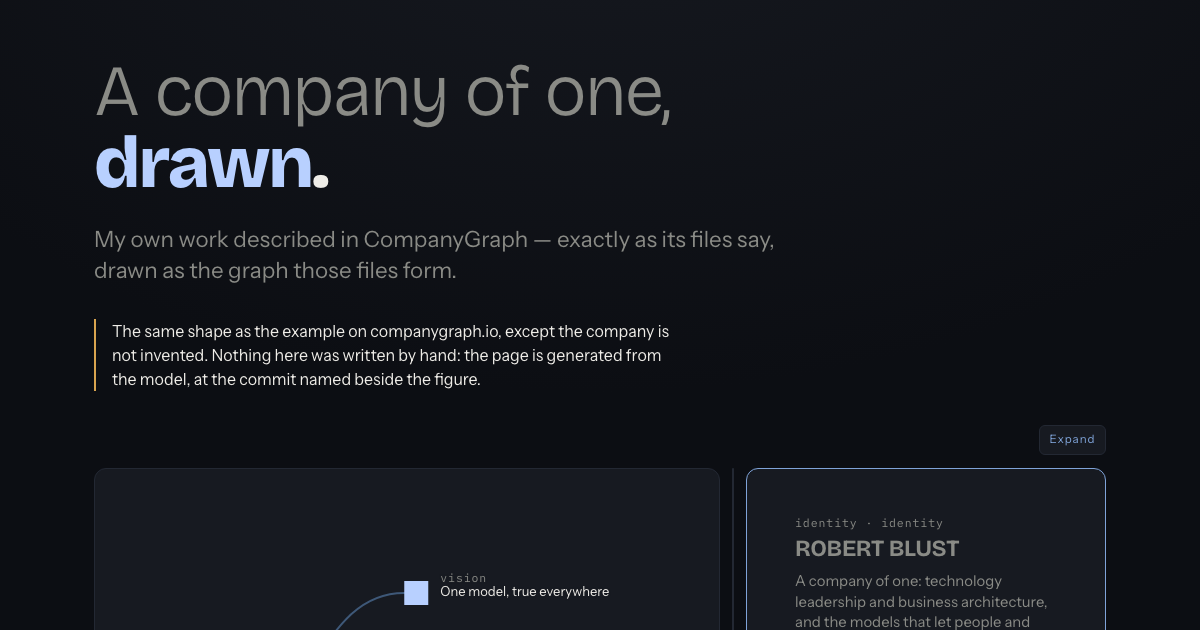
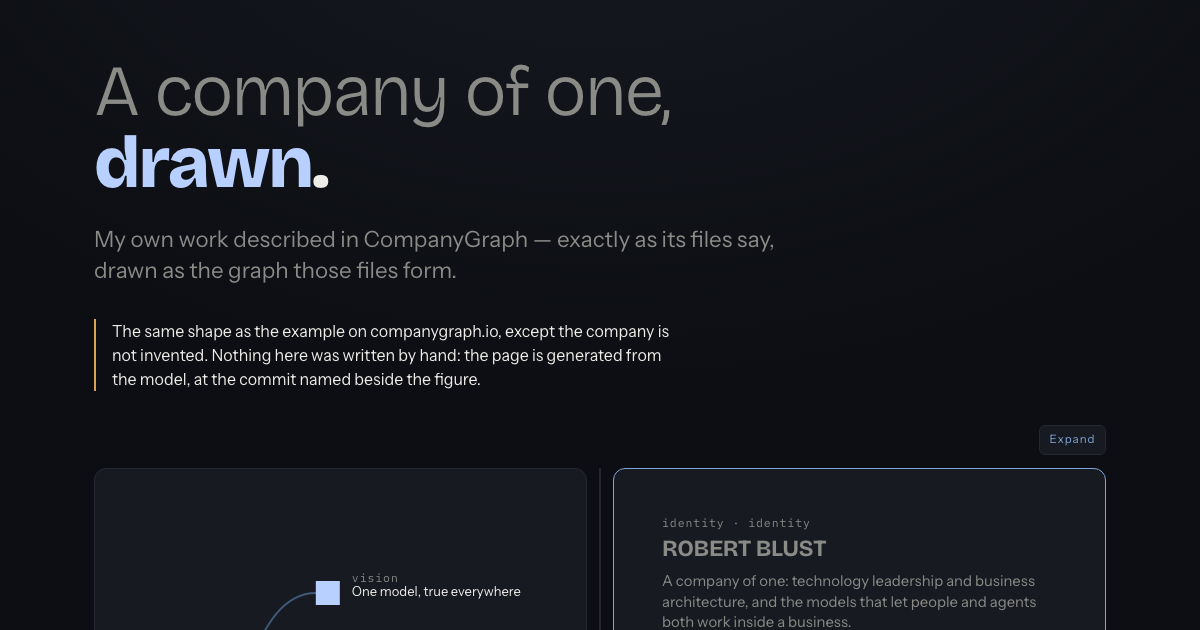
Open the stage even, and let the reader take it from there
The panes started at a fixed 360px, which was a width chosen for the narrowest
card the stage ever shows — a folder with a count and nothing else. A profile
claiming fifty-eight skills got the same column. Half and half instead: both
sides of the stage are shown at once and the reader moves the handle from
there, which is the only starting point that assumes nothing about what is
being looked at.

Computed from the box rather than stored as a number, so the page and the
dialog each open even without either knowing the other's size — and a
double-click returns to even rather than to a remembered constant. The
stylesheet declares the same split as `calc(50% - 13px)`, the chrome being the
handle and the grid's two gaps, so the first paint is already even instead of
360px for a frame and then a jump.

`divider` asserts the stage opens even and that a reset leaves it even, in
both boxes.

Changed region(s): [[0.555, 0.8143, 0.8633, 0.9952], [0.2467, 0.9048, 0.5242, 0.9651]]

diff --git a/stage.js b/stage.js
@@ -660,17 +660,21 @@
   // the other: one number would be clamped to the page's maximum every time the dialog closed,
   // and the reader's choice in the wider box would be lost on the way back. The default
   // differs for the same reason.
-  var CARD = {
-    page:  { key: "cg-stage-card",       fallback: 360 },
-    modal: { key: "cg-stage-card-modal", fallback: 400 }
-  };
+  var CARD = { page: { key: "cg-stage-card" }, modal: { key: "cg-stage-card-modal" } };
   var CARD_MIN = 280, CANVAS_MIN = 320;
   function cardMode(){ return modal.contains(stageEl) ? CARD.modal : CARD.page; }
+  // Nothing stored means half the box, not a fixed width: the two panes start equal and the
+  // reader decides from there. It is computed from the box in hand rather than carried as a
+  // number, so the page and the dialog each open even without either knowing the other's size.
+  function evenCard(){
+    var stage = stageEl.getBoundingClientRect().width;
+    var chrome = stage - stageEl.querySelector(".canvas").getBoundingClientRect().width - cardWidth();
+    return (stage - chrome) / 2;
+  }
   function storedCard(){
-    var mode = cardMode();
     var n = null;
-    try { n = parseInt(localStorage.getItem(mode.key), 10); } catch (e) {}
-    return n || mode.fallback;
+    try { n = parseInt(localStorage.getItem(cardMode().key), 10); } catch (e) {}
+    return n || evenCard();
   }
   var gutter = document.getElementById("gutter");
   function cardWidth(){ return stageEl.querySelector(".card").getBoundingClientRect().width; }
@@ -717,9 +721,8 @@
     // Double-click restores the default and forgets the stored one, the way a devtools split
     // does — otherwise the only way back to the original is to drag until it looks right.
     gutter.addEventListener("dblclick", function(){
-      var mode = cardMode();
-      try { localStorage.removeItem(mode.key); } catch (e) {}
-      setCard(mode.fallback, false); render();
+      try { localStorage.removeItem(cardMode().key); } catch (e) {}
+      setCard(evenCard(), false); render();
     });
     gutter.addEventListener("keydown", function(ev){
       var step = ev.key === "ArrowLeft" ? 16 : ev.key === "ArrowRight" ? -16 : 0;

diff --git a/stage.css b/stage.css
@@ -15,7 +15,11 @@
   /* Three columns: canvas, the handle between them, details. The details width is a custom
      property so one line of script can move it and every layout that reads it follows —
      including the dialog, which is the same .stage element moved, not a second one. */
-  .stage{--card-w:360px; margin-top:.8rem; height:clamp(520px,62vh,720px); display:grid;
+  /* Half and half to begin with. The chrome between the panes is the handle plus the grid's
+     two gaps — 10 + 8 + 8 — so half of what is left is 50% minus 13px, and the script computes
+     the same number when it takes over. Declaring it here rather than only in the script means
+     the first paint is already even, instead of 360px for a frame and then a jump. */
+  .stage{--card-w:calc(50% - 13px); margin-top:.8rem; height:clamp(520px,62vh,720px); display:grid;
          grid-template-columns:minmax(0,1fr) 10px var(--card-w); gap:.5rem}
   .canvas{position:relative; overflow:hidden; border:1.5px solid var(--rule); border-radius:12px; background:var(--raise)}
   /* No cursor at rest. The primary act on this canvas is clicking a node, not dragging the
